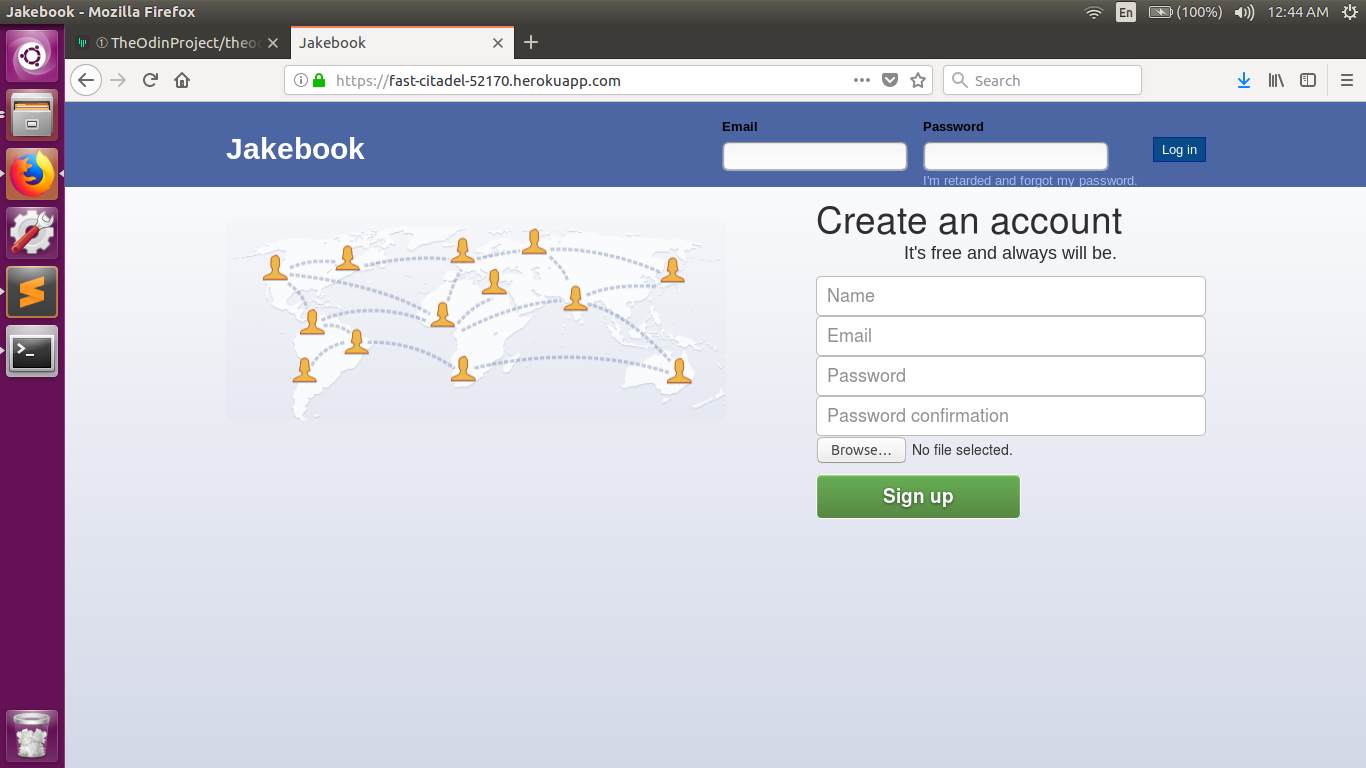
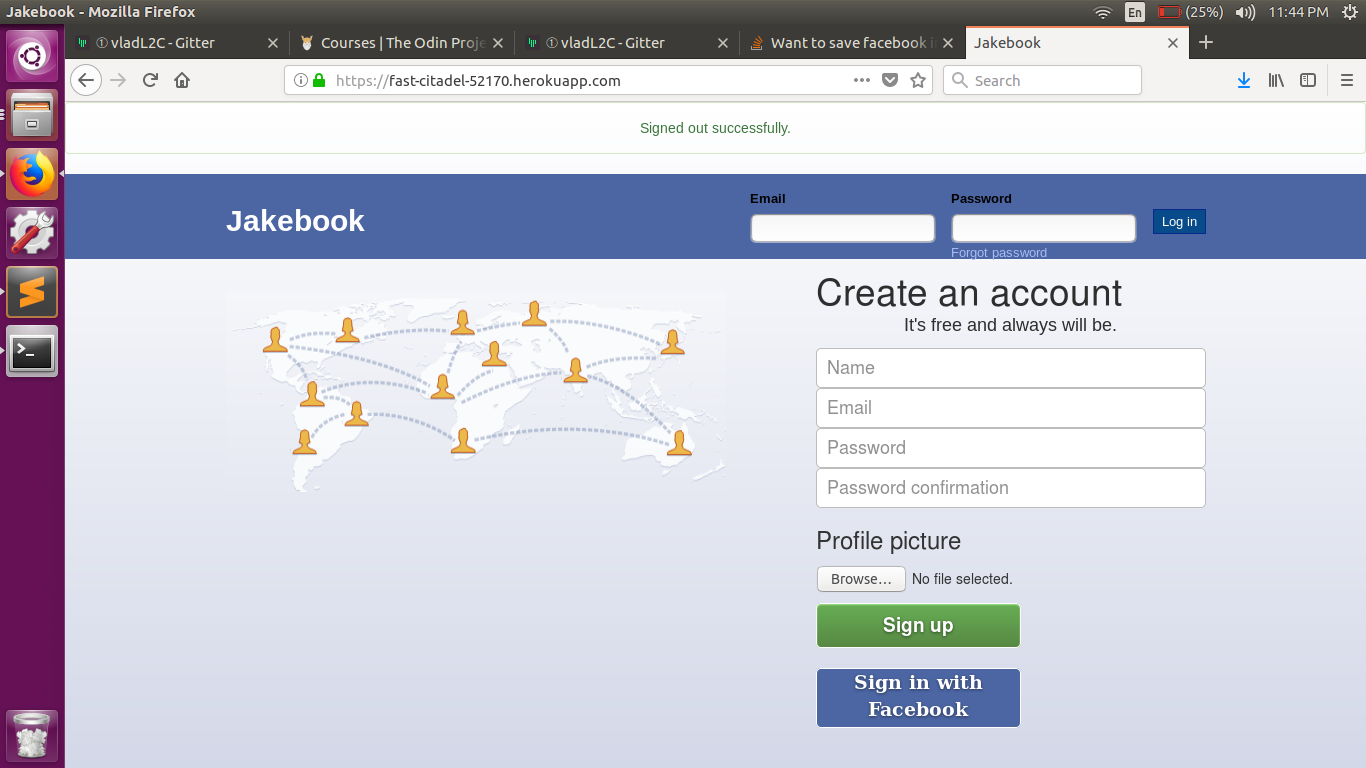
Updated README

diff --git a/README.md b/README.md
@@ -2,9 +2,17 @@
 
 This was the final rails project for the <a href='www.theodinproject.com'>odin project</a> rails curriculum.
 
-#Features
+*Gems 
+gem 'figaro'
+gem 'omniauth-facebook'
+gem 'paperclip-cloudinary'
+gem 'paperclip'
+gem 'acts_as_votable', '~> 0.10.0'
+gem 'jquery-rails'
+gem 'jquery-turbolinks'
+gem 'bootstrap-sass',          '3.3.7'
 
-Devise user authenticaion:
+Oauth/Devise user authenticaion:
 ![Image Hover Text](/devise.png)
 
 Individual user profile pages:
